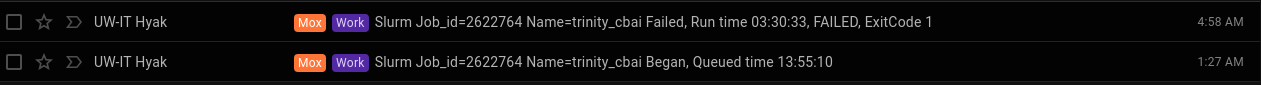
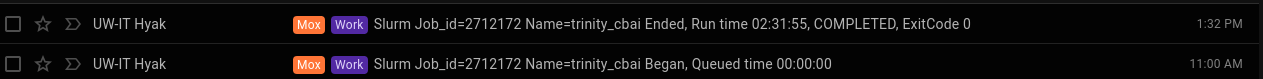
add updated runtime

diff --git a/_posts/2020/2020-05-18-Transcriptome-Assembly---C.bairdi-All-Arthropoda-specific-RNAseq-Data-with-Trinity-on-Mox.md b/_posts/2020/2020-05-18-Transcriptome-Assembly---C.bairdi-All-Arthropoda-specific-RNAseq-Data-with-Trinity-on-Mox.md
@@ -149,7 +149,7 @@ md5sum trinity_out_dir/"${fasta_name}"
 
 #### RESULTS
 
-Pretty quick; only ~3.5hrs (NOTE: Job indicates it failed. This is due to wrong path for `md5sum` command on last line of script. Trinity _de novo_ assembly completed without issue.):
+Pretty quick; only ~2.5hrs (NOTE: Job indicates it failed. This is due to wrong path for `md5sum` command on last line of script. Trinity _de novo_ assembly completed without issue.):
 
 ![Trinity all Arthropoda-specific RNAseq runtime](https://github.com/RobertsLab/sams-notebook/blob/master/images/screencaps/20200518_cbai_trinity_all_Arthropoda_RNAseq_runtime.png?raw=true)
 
